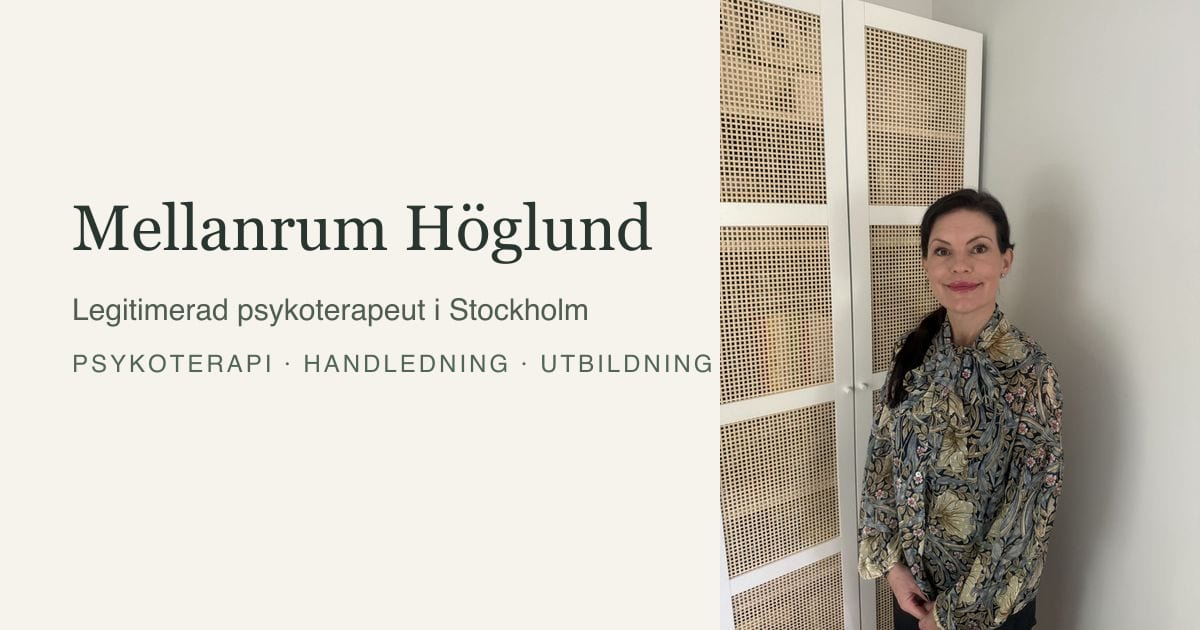
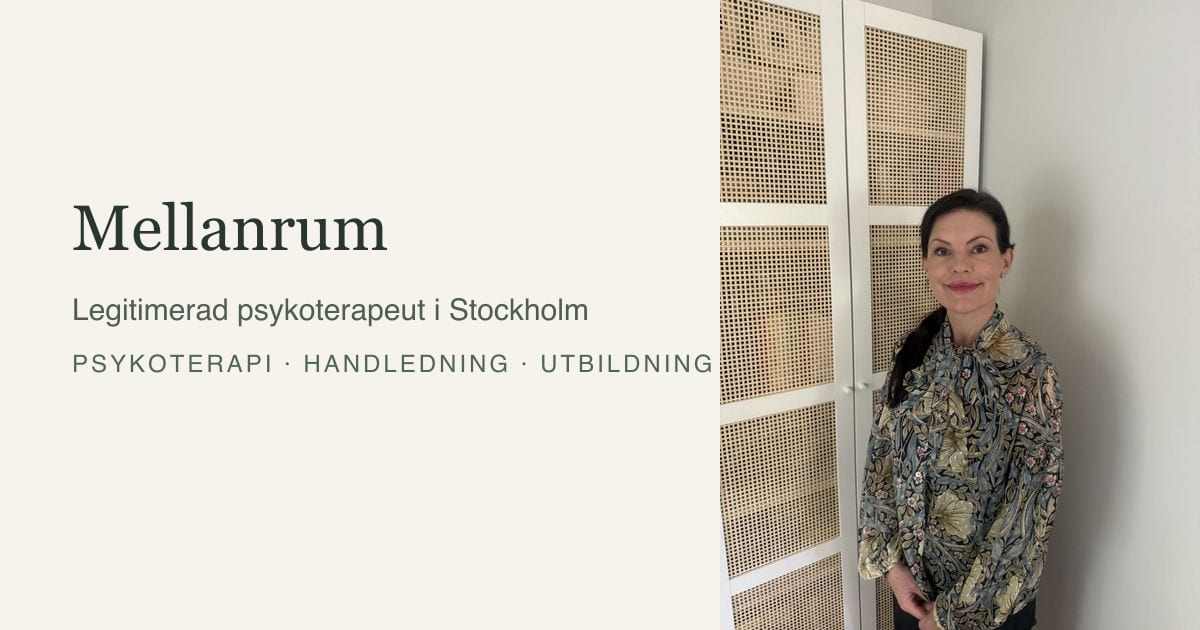
Delningsbild och dokument med namnet Mellanrum, pris 4 000 kr

Changed region(s): [[0.3392, 0.3016, 0.555, 0.4222]]

diff --git a/DESIGN.md b/DESIGN.md
@@ -1,6 +1,6 @@
 ---
 version: alpha
-name: Mellanrum Höglund
+name: Mellanrum
 description: Anna Höglund's practice site. Values mirror :root in src/styles/global.css, which follows Anna's ChatGPT mockup (fran-anna-2026-10-22).
 colors:
   paper: "#f6f3ed"
@@ -87,7 +87,7 @@ components:
     padding: 12px
 ---
 
-# Mellanrum Höglund design system
+# Mellanrum design system
 
 The tokens live in `:root` in `src/styles/global.css`. Anna approved the job on the condition that the site looks as close to her mockup as possible, so the mockup is the spec. Change code and this file in the same commit.
 
@@ -147,3 +147,5 @@ Focus is a 2px clay-text outline with 3px offset. A skip link appears on focus. 
 12. Added a 404 page and a 1200x630 share image (public/og.jpg) in the same paper, ink and Georgia style. The mockup has neither.
 
 The Impeccable detector also flags the eyebrow kickers above every heading and the cream background. Both come from the mockup and stay, because Anna made the mockup the condition for the order.
+13. The page title is "Legitimerad psykoterapeut i Stockholm | Mellanrum" (mockup: "Mellanrum | Psykoterapi, handledning & utbildning"), so the search result names the profession and the city.
+14. An optional "Boka tid" button appears in the hero and the contact column when Anna fills in a booking link in /admin. With the field empty the page matches the mockup.

diff --git a/CLAUDE.md b/CLAUDE.md
@@ -1,6 +1,6 @@
-# Mellanrum Höglund
+# Mellanrum
 
-Anna Höglund's one-page site for psychotherapy, supervision and training in Stockholm. Fixed-price job (4 999 kr exkl. moms). The repo moves to Anna's GitHub (AnnaHoglund12) at delivery.
+Anna Höglund's one-page site for psychotherapy, supervision and training in Stockholm. Fixed-price job (4 000 kr exkl. moms, lowered from 4 999 on 2026-10-26, booking button included). The repo moves to Anna's GitHub (AnnaHoglund12) at delivery.
 
 ## Stack
 - Astro 7, static output, no client framework. All copy in `src/data/site.json`.

diff --git a/CHANGELOG.md b/CHANGELOG.md
@@ -16,3 +16,4 @@
 - DESIGN.md och TODO uppdaterade efter SEO-audit.
 - Innehåll enligt Annas förlaga v2: sex tjänster, nya priser, KBT/PDT, sexologi och SAPU, varumärket Mellanrum
 - Bokningsknapp i hero och kontakt, styrs av fältet Bokning i /admin (dold när länken är tom)
+- Delningsbilden visar Mellanrum; DESIGN.md avvikelse 13-14 mot förlaga v2; pris 4 000 kr i CLAUDE.md
